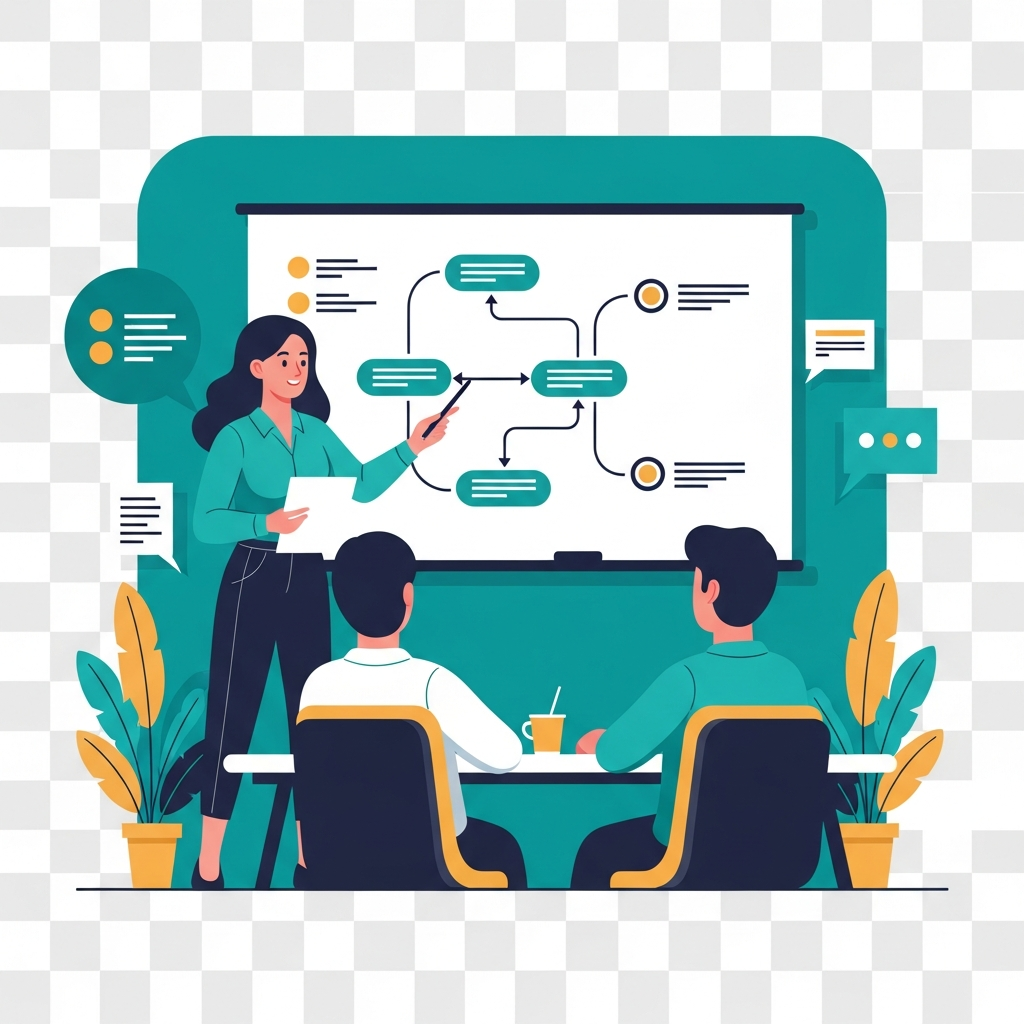
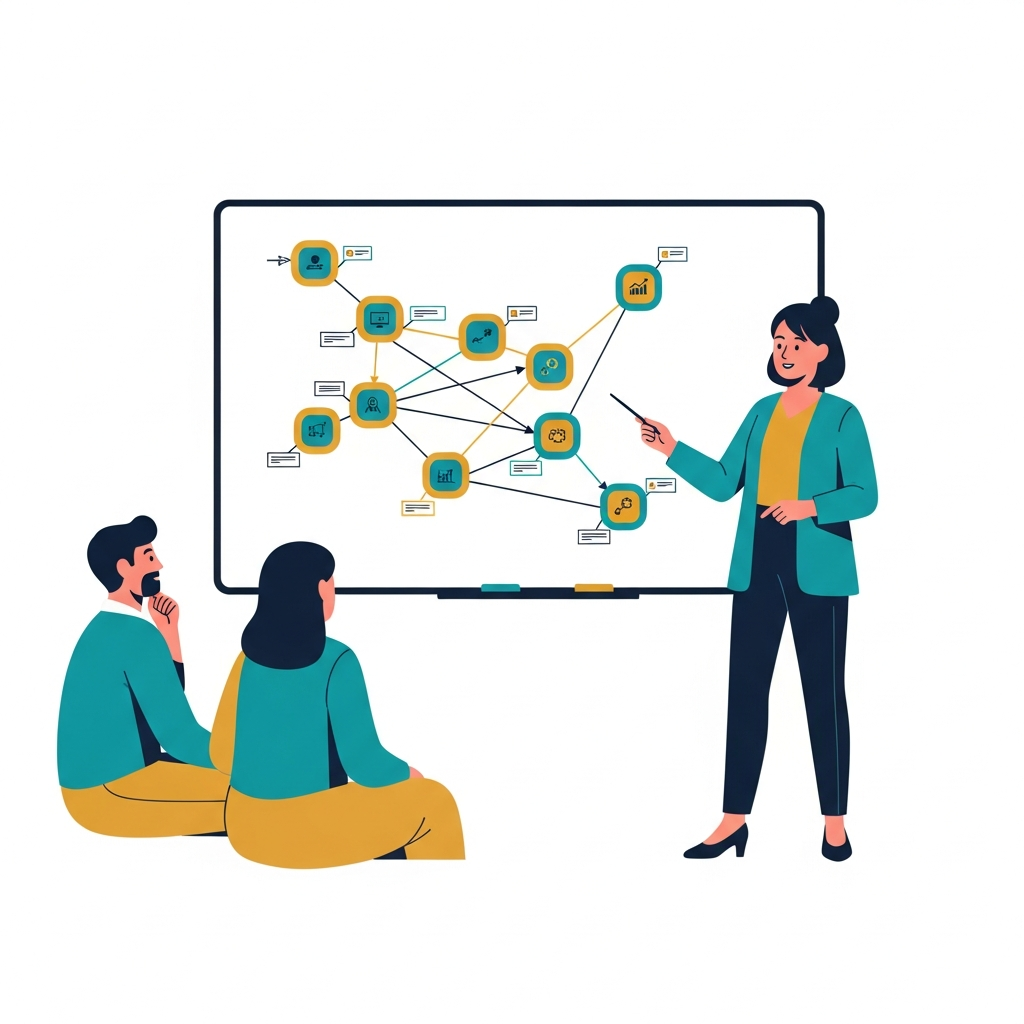
MC Coaching-style hero bleed, flame bg in why-us, full-width case study images, white-bg service illustrations, growth color match

diff --git a/src/app/page.tsx b/src/app/page.tsx
@@ -7,84 +7,86 @@ export default function Home() {
     <>
       <Nav />
 
-      {/* ══════════════════════════════════════════════════════
-          HERO — full viewport, split screen, left-aligned
-          taste.md: ANTI-CENTER BIAS, min-h-[100dvh]
-          soft.md: macro-whitespace, eyebrow tag, nested CTA
-      ══════════════════════════════════════════════════════ */}
+      {/* ═══════════════ HERO ═══════════════ */}
       <section className="relative flex min-h-[100dvh] items-center overflow-hidden">
-        {/* Ambient gradient orbs */}
-        <div className="pointer-events-none absolute inset-0">
-          <div className="absolute -right-20 top-1/4 h-[600px] w-[600px] rounded-full bg-white/15 blur-[100px]" />
-          <div className="absolute -left-32 bottom-0 h-[400px] w-[400px] rounded-full bg-teal-dark/15 blur-[120px]" />
+        {/* Gradient overlay to fade image into bg */}
+        <div className="pointer-events-none absolute inset-0 z-10 bg-gradient-to-r from-teal via-teal/80 to-transparent" />
+        {/* Extra mobile overlay */}
+        <div className="pointer-events-none absolute inset-0 z-10 bg-teal/40 lg:hidden" />
+
+        {/* Hero image — absolutely positioned, fills right side, MC Coaching style */}
+        <div className="absolute right-0 top-0 bottom-0 w-full lg:w-3/5 z-0">
+          {/* eslint-disable-next-line @next/next/no-img-element */}
+          <img
+            src="/images/hero-illustration.png"
+            alt=""
+            className="h-full w-full object-contain object-right mix-blend-multiply opacity-60"
+          />
+          <div className="absolute inset-0 bg-gradient-to-r from-teal via-teal/50 to-transparent" />
+          <div className="absolute inset-0 bg-gradient-to-t from-teal via-transparent to-teal/30" />
         </div>
 
-        <div className="relative mx-auto w-full max-w-6xl px-6 py-32">
-          <div className="grid grid-cols-1 items-center gap-12 md:grid-cols-12 md:gap-8">
-            <div className="md:col-span-7">
-              <Reveal>
-                <span className="inline-flex items-center gap-2 rounded-full bg-white/20 px-4 py-1.5 text-[11px] font-semibold uppercase tracking-[0.2em] text-teal-darkest/70 ring-1 ring-white/30 backdrop-blur-sm">
-                  <span className="h-1.5 w-1.5 rounded-full bg-purple" />
-                  People Development
-                </span>
-              </Reveal>
+        <div className="relative z-20 mx-auto w-full max-w-6xl px-6 py-32">
+          <div className="max-w-xl">
+            <Reveal>
+              <span className="inline-flex items-center gap-2 rounded-full bg-white/20 px-4 py-1.5 text-[11px] font-semibold uppercase tracking-[0.2em] text-teal-darkest/70 ring-1 ring-white/30 backdrop-blur-sm">
+                <span className="h-1.5 w-1.5 rounded-full bg-purple" />
+                People Development
+              </span>
+            </Reveal>
 
-              <Reveal delay={80}>
-                <h1 className="mt-8 text-[clamp(2.8rem,7vw,5rem)] font-bold leading-[1.05] tracking-[-0.03em] text-teal-darkest text-balance">
-                  Empowering growth and{" "}
-                  <span className="text-teal-deep">development</span>
-                </h1>
-              </Reveal>
+            <Reveal delay={80}>
+              <h1 className="mt-8 text-[clamp(2.8rem,7vw,5rem)] font-bold leading-[1.05] tracking-[-0.03em] text-teal-darkest text-balance">
+                Empowering{" "}
+                <span className="text-teal-deep">growth</span> and{" "}
+                <span className="text-teal-deep">development</span>
+              </h1>
+            </Reveal>
 
-              <Reveal delay={150}>
-                <p className="mt-6 max-w-[44ch] text-base leading-[1.7] text-teal-darkest/55 md:text-[17px]">
-                  Ignite Potential offers expert people development for
-                  individuals, groups, and organisations of all sizes and sectors.
-                </p>
-              </Reveal>
+            <Reveal delay={150}>
+              <p className="mt-6 max-w-[44ch] text-base leading-[1.7] text-teal-darkest/60 md:text-[17px]">
+                Ignite Potential offers expert people development for
+                individuals, groups, and organisations of all sizes and sectors.
+              </p>
+            </Reveal>
 
-              <Reveal delay={220}>
-                <div className="mt-9 flex flex-wrap items-center gap-4">
-                  <a
-                    href="#services"
-                    className="group inline-flex items-center gap-2.5 rounded-full bg-teal-darkest pl-7 pr-2.5 py-2.5 text-sm font-semibold text-white transition-all duration-400 ease-[cubic-bezier(0.32,0.72,0,1)] hover:bg-teal-deep active:scale-[0.97]"
-                  >
-                    Our Services
-                    <span className="flex h-8 w-8 items-center justify-center rounded-full bg-white/15 transition-transform duration-300 ease-[cubic-bezier(0.32,0.72,0,1)] group-hover:translate-x-0.5">
-                      <svg width="12" height="12" viewBox="0 0 12 12" fill="none" stroke="currentColor" strokeWidth="2" strokeLinecap="round" strokeLinejoin="round"><path d="M6 2v8M3 7l3 3 3-3"/></svg>
-                    </span>
-                  </a>
-                  <a
-                    href="#case-studies"
-                    className="rounded-full border-2 border-teal-darkest/70 px-7 py-2.5 text-sm font-semibold text-teal-darkest transition-all duration-300 ease-[cubic-bezier(0.32,0.72,0,1)] hover:border-teal-darkest hover:bg-teal-darkest hover:text-white active:scale-[0.97]"
-                  >
-                    Case Studies
-                  </a>
-                </div>
-              </Reveal>
-            </div>
-
-            <Reveal delay={180} className="md:col-span-5 flex justify-center md:justify-end">
-              {/* eslint-disable-next-line @next/next/no-img-element */}
-              <img
-                src="/images/hero-illustration.png"
-                alt="Professionals beneath a growth tree of ideas, gears, and lightbulbs"
-                width={420}
-                height={420}
-                className="w-56 mix-blend-multiply md:w-72 lg:w-80"
-              />
+            <Reveal delay={220}>
+              <div className="mt-9 flex flex-wrap items-center gap-4">
+                <a
+                  href="#services"
+                  className="group inline-flex items-center gap-2.5 rounded-full bg-teal-darkest pl-7 pr-2.5 py-2.5 text-sm font-semibold text-white transition-all duration-400 ease-[cubic-bezier(0.32,0.72,0,1)] hover:bg-teal-deep active:scale-[0.97]"
+                >
+                  Our Services
+                  <span className="flex h-8 w-8 items-center justify-center rounded-full bg-white/15 transition-transform duration-300 ease-[cubic-bezier(0.32,0.72,0,1)] group-hover:translate-x-0.5">
+                    <svg width="12" height="12" viewBox="0 0 12 12" fill="none" stroke="currentColor" strokeWidth="2" strokeLinecap="round" strokeLinejoin="round"><path d="M6 2v8M3 7l3 3 3-3"/></svg>
+                  </span>
+                </a>
+                <a
+                  href="#case-studies"
+                  className="rounded-full border-2 border-teal-darkest/70 px-7 py-2.5 text-sm font-semibold text-teal-darkest transition-all duration-300 ease-[cubic-bezier(0.32,0.72,0,1)] hover:border-teal-darkest hover:bg-teal-darkest hover:text-white active:scale-[0.97]"
+                >
+                  Case Studies
+                </a>
+              </div>
             </Reveal>
           </div>
         </div>
       </section>
 
-      {/* ══════════════════════════════════════════════════════
-          DIFFERENTIATORS — editorial numbered list
-          taste.md: no 3 equal cards, left-aligned headers
-          minimalist.md: border-bottom dividers, editorial feel
-      ══════════════════════════════════════════════════════ */}
-      <section className="py-24 md:py-32">
-        <div className="mx-auto max-w-6xl px-6">
+      {/* ═══════════════ DIFFERENTIATORS ═══════════════ */}
+      <section className="relative overflow-hidden py-24 md:py-32">
+        {/* Flame illustration as background element behind heading */}
+        <div className="pointer-events-none absolute left-1/2 top-0 -translate-x-1/2 w-[500px] md:w-[700px] opacity-[0.08]">
+          {/* eslint-disable-next-line @next/next/no-img-element */}
+          <img
+            src="/images/circle-fire.png"
+            alt=""
+            className="w-full mix-blend-multiply"
+          />
+          <div className="absolute inset-0 bg-gradient-to-b from-transparent via-transparent to-teal" />
+        </div>
+
+        <div className="relative mx-auto max-w-6xl px-6">
           <div className="grid grid-cols-1 items-start gap-16 md:grid-cols-12">
             <div className="md:col-span-5">
               <Reveal>
@@ -97,9 +99,6 @@ export default function Home() {
                 <h2 className="mt-5 text-3xl font-bold leading-[1.1] tracking-tight text-teal-darkest md:text-4xl">
                   Where experience meets personalised progress
                 </h2>
-              </Reveal>
-              <Reveal delay={120} className="mt-10 flex justify-start">
-                <Image src="/images/circle-fire.png" alt="Innovation illustration" width={280} height={280} className="w-48 mix-blend-multiply opacity-85 md:w-56" />
               </Reveal>
             </div>
 
@@ -125,11 +124,7 @@ export default function Home() {
         </div>
       </section>
 
-      {/* ══════════════════════════════════════════════════════
-          SERVICES — asymmetric bento grid
-          taste.md: no 3 equal cards, layout diversification
-          soft.md: double-bezel cards, nested CTA
-      ══════════════════════════════════════════════════════ */}
+      {/* ═══════════════ SERVICES ═══════════════ */}
       <section id="services" className="py-24 md:py-32">
         <div className="mx-auto max-w-6xl px-6">
           <Reveal>
@@ -146,21 +141,21 @@ export default function Home() {
             {([
               {
                 img: "/images/individual-development.png",
-                alt: "One-on-one coaching session with growth symbols",
+                alt: "One-on-one coaching session",
                 title: "Individual Development",
                 text: "We offer personalised coaching to unlock your full potential. Our expert guidance helps you overcome challenges, set meaningful goals, and thrive in all aspects of life.",
                 delay: 80,
               },
               {
                 img: "/images/group-development.png",
-                alt: "Diverse team collaborating with strategy elements",
+                alt: "Team workshop collaboration",
                 title: "Group Development",
                 text: "Build team cohesion and success through interactive workshops and targeted coaching. Our expert facilitators drive collaboration, communication, and results.",
                 delay: 140,
               },
               {
                 img: "/images/consulting.png",
-                alt: "Consultant presenting strategic roadmap",
+                alt: "Strategic consulting presentation",
                 title: "Personal Consulting",
                 text: "Expert consultancy services to drive growth and development. Our team brings experience and diverse perspectives to address your unique challenges and opportunities.",
                 delay: 200,
@@ -192,11 +187,7 @@ export default function Home() {
         </div>
       </section>
 
-      {/* ══════════════════════════════════════════════════════
-          CASE STUDIES — editorial panels
-          redesign.md: alternating layout, pull-quote testimonials
-          soft.md: double-bezel, macro-whitespace
-      ══════════════════════════════════════════════════════ */}
+      {/* ═══════════════ CASE STUDIES ═══════════════ */}
       <section id="case-studies" className="py-24 md:py-32">
         <div className="mx-auto max-w-6xl px-6">
           <Reveal>
@@ -238,11 +229,22 @@ export default function Home() {
             <Reveal key={cs.title} delay={cs.delay}>
               <article className={`${idx === 0 ? "mt-14" : "mt-5"} rounded-[2rem] bg-white/50 p-1.5 ring-1 ring-white/60`}>
                 <div className="overflow-hidden rounded-[calc(2rem-6px)] bg-white">
-                  {/* Header band with blended illustration */}
-                  <div className="relative overflow-hidden bg-gradient-to-r from-teal-dark to-teal-deep px-8 py-8 md:px-10 md:py-10">
-                    <Image src={cs.img} alt="" width={200} height={200} className="pointer-events-none absolute -right-4 top-1/2 -translate-y-1/2 w-36 opacity-15 mix-blend-soft-light md:w-48 lg:w-56" />
-                    <span className="text-[11px] font-bold uppercase tracking-widest text-white/50">{cs.tag}</span>
-                    <h3 className="mt-2 text-xl font-bold text-white md:text-2xl">{cs.title}</h3>
+                  {/* Header band — illustration fills full width as bg */}
+                  <div className="relative overflow-hidden bg-gradient-to-r from-teal-dark to-teal-deep">
+                    {/* Full-width blended illustration */}
+                    <div className="absolute inset-0 z-0">
+                      {/* eslint-disable-next-line @next/next/no-img-element */}
+                      <img
+                        src={cs.img}
+                        alt=""
+                        className="h-full w-full object-contain object-right opacity-20 mix-blend-soft-light"
+                      />
+                      <div className="absolute inset-0 bg-gradient-to-r from-teal-dark via-teal-dark/70 to-transparent" />
+                    </div>
+                    <div className="relative z-10 px-8 py-8 md:px-10 md:py-10">
+                      <span className="text-[11px] font-bold uppercase tracking-widest text-white/50">{cs.tag}</span>
+                      <h3 className="mt-2 text-xl font-bold text-white md:text-2xl">{cs.title}</h3>
+                    </div>
                   </div>
 
                   <div className="grid grid-cols-1 lg:grid-cols-5">
@@ -284,11 +286,7 @@ export default function Home() {
         </div>
       </section>
 
-      {/* ══════════════════════════════════════════════════════
-          TEAM — photo-forward cards
-          taste.md: layout diversification
-          redesign.md: photos prominent, clean internal grid
-      ══════════════════════════════════════════════════════ */}
+      {/* ═══════════════ TEAM ═══════════════ */}
       <section id="team" className="py-24 md:py-32">
         <div className="mx-auto max-w-6xl px-6">
           <Reveal>
@@ -323,7 +321,6 @@ export default function Home() {
               <Reveal key={person.name} delay={person.delay}>
                 <div className="flex h-full flex-col rounded-[2rem] bg-white/50 p-1.5 ring-1 ring-white/60">
                   <div className="flex h-full flex-col overflow-hidden rounded-[calc(2rem-6px)] bg-white">
-                    {/* Photo + intro — fixed height */}
                     <div className="flex items-start gap-5 p-7 md:p-8">
                       <Image src={person.img} alt={person.name} width={160} height={160} className="h-28 w-28 shrink-0 rounded-2xl object-cover md:h-32 md:w-32" />
                       <div className="min-w-0">
@@ -333,7 +330,6 @@ export default function Home() {
                         </ul>
                       </div>
                     </div>
-                    {/* Expertise / Experience — grows to fill */}
                     <div className="grid flex-1 grid-cols-2 divide-x divide-gray-100 border-t border-gray-100">
                       <div className="p-6">
                         <h4 className="text-[11px] font-bold uppercase tracking-widest text-teal-darkest/30">Expertise</h4>
@@ -356,10 +352,7 @@ export default function Home() {
         </div>
       </section>
 
-      {/* ══════════════════════════════════════════════════════
-          CTA — dark teal panel, visual weight
-          soft.md: double-bezel, nested CTA button
-      ══════════════════════════════════════════════════════ */}
+      {/* ═══════════════ CTA ═══════════════ */}
       <section id="contact" className="py-24 md:py-32">
         <div className="mx-auto max-w-6xl px-6">
           <Reveal>
@@ -394,7 +387,6 @@ export default function Home() {
       {/* ═══════════════ FOOTER ═══════════════ */}
       <footer className="mt-8 rounded-t-[2.5rem] bg-teal-darkest">
         <div className="mx-auto max-w-6xl px-6 pt-14 pb-8">
-          {/* Top row */}
           <div className="flex flex-col items-start justify-between gap-8 md:flex-row md:items-center">
             <Image src="/images/logo.png" alt="Ignite Potential" width={140} height={52} className="h-8 w-auto brightness-0 invert opacity-70" />
             <div className="flex flex-wrap gap-6">
@@ -408,16 +400,13 @@ export default function Home() {
             </div>
           </div>
 
-          {/* Contact row */}
           <div className="mt-10 flex flex-col gap-3 sm:flex-row sm:gap-8">
             <a href="mailto:heidi@ignitepotential.ltd" className="text-sm text-white/40 transition-colors hover:text-white/70">heidi@ignitepotential.ltd</a>
             <a href="mailto:thea@ignitepotential.ltd" className="text-sm text-white/40 transition-colors hover:text-white/70">thea@ignitepotential.ltd</a>
           </div>
 
-          {/* Divider */}
           <div className="mt-10 border-t border-white/[0.06]" />
 
-          {/* Bottom row */}
           <div className="mt-6 flex flex-col items-center justify-between gap-3 text-xs text-white/25 md:flex-row">
             <span>&copy; {new Date().getFullYear()} Ignite Potential Ltd. All rights reserved.</span>
             <div className="flex gap-6">
